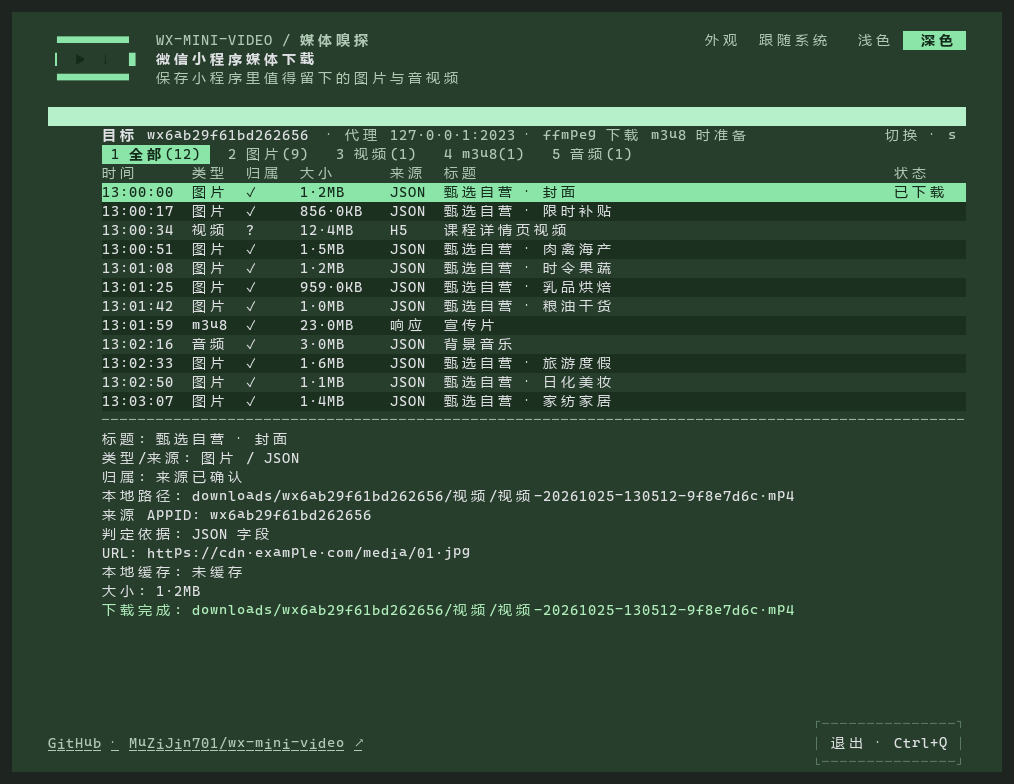
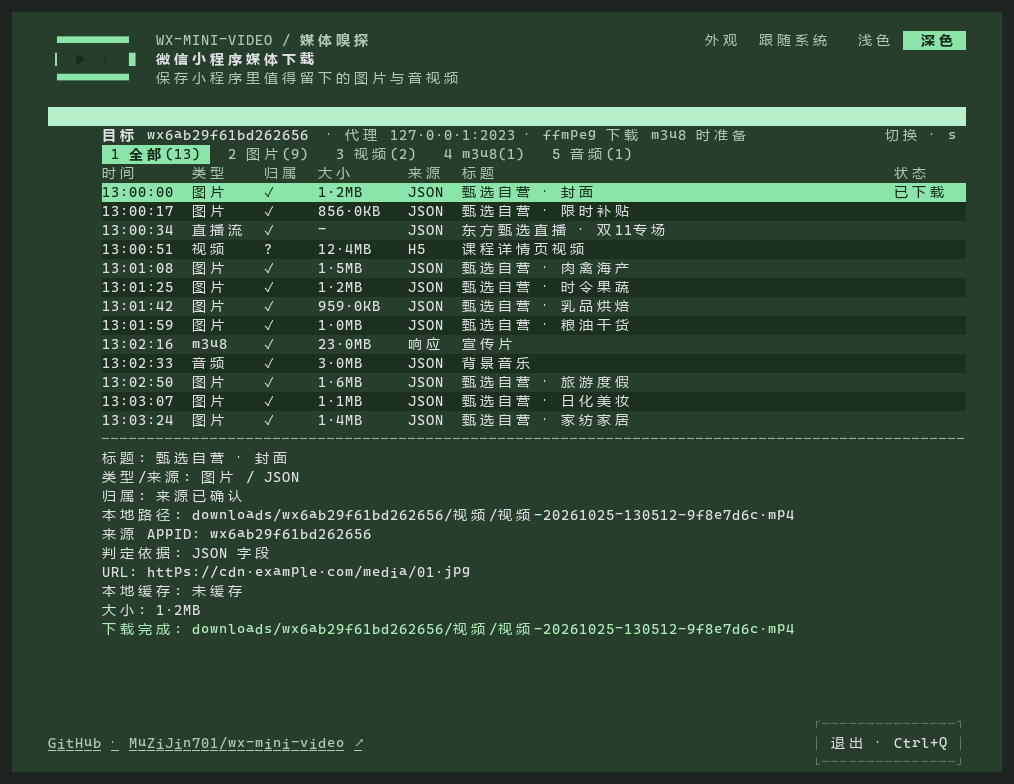
docs: 同步直播流识别与录制的文档和截图
更新 README 中英文（直播录制截图与说明）、知识文档验收清单与测试覆盖、macOS 使用说明与需求、UI 改版需求的后续扩展记录、agent 域文档的 ADR 列表与 CHANGELOG；重新生成受类型列宽影响的文档截图，并新增直播录制截图（预览工具补充 live 候选与 recording 场景）。

diff --git a/internal/tui/preview.go b/internal/tui/preview.go
@@ -24,7 +24,7 @@ func init() {
 }
 
 // PreviewKinds 是文档预览支持的界面名称。
-var PreviewKinds = []string{"home", "waiting", "discovered", "media", "downloaded", "logs"}
+var PreviewKinds = []string{"home", "waiting", "discovered", "media", "recording", "downloaded", "logs"}
 
 // RenderPreview 渲染一个固定尺寸的界面预览。
 func RenderPreview(kind string, width, height int) (string, error) {
@@ -84,8 +84,23 @@ func buildPreviewModel(kind string, width, height int) (model, error) {
 		m.started = true
 		m.category = categoryAll
 		m.candidates = previewCandidates()
-		m.selected = 2
+		m.selected = previewLiveIndex(m.candidates)
 		m.showDetails = true
+	case "recording":
+		m.targetReady = true
+		m.started = true
+		m.category = categoryAll
+		m.candidates = previewCandidates()
+		m.selected = previewLiveIndex(m.candidates)
+		m.downloading = true
+		m.downloadLive = true
+		m.downloadID = m.candidates[m.selected].ID
+		m.progress = minidownload.Progress{
+			ID:         m.downloadID,
+			Status:     "recording",
+			Downloaded: 96 * 1024 * 1024,
+			Live:       true,
+		}
 	case "downloaded":
 		m.targetReady = true
 		m.started = true
@@ -120,6 +135,9 @@ func previewLogs() []string {
 		"13:00:31 检测到来源未确认媒体，已按类型并入列表（以 ? 标记）",
 		"13:01:08 开始下载: 来源已确认 视频 甄选自营 · 封面",
 		"13:01:12 下载完成: downloads/wx6ab29f61bd262656/视频/视频_20261025-130512_9f8e7d6c.mp4",
+		"13:01:20 开始下载: 来源已确认 直播流 东方甄选直播 · 双11专场",
+		"13:01:20 识别为直播流：会持续录制且不会自动结束，按 x 停止并保存",
+		"13:02:41 已停止录制: downloads/wx6ab29f61bd262656/视频/视频_20261025-130241_00000003.flv",
 	}
 }
 
@@ -131,23 +149,25 @@ func previewCandidates() []miniprogram.Candidate {
 		source string
 		size   int64
 		attr   string
+		live   bool
 	}{
-		{"甄选自营 · 封面", "image", "json", 1_258_291, miniprogram.AttributionConfirmed},
-		{"甄选自营 · 限时补贴", "image", "json", 876_544, miniprogram.AttributionConfirmed},
-		{"课程详情页视频", "video", "html", 13_002_291, miniprogram.AttributionUnattributed},
-		{"甄选自营 · 肉禽海产", "image", "json", 1_572_664, miniprogram.AttributionConfirmed},
-		{"甄选自营 · 时令果蔬", "image", "json", 1_310_720, miniprogram.AttributionConfirmed},
-		{"甄选自营 · 乳品烘焙", "image", "json", 982_016, miniprogram.AttributionConfirmed},
-		{"甄选自营 · 粮油干货", "image", "json", 1_048_576, miniprogram.AttributionConfirmed},
-		{"宣传片", "m3u8", "response", 24_117_248, miniprogram.AttributionConfirmed},
-		{"背景音乐", "audio", "json", 3_145_728, miniprogram.AttributionConfirmed},
-		{"甄选自营 · 旅游度假", "image", "json", 1_703_936, miniprogram.AttributionConfirmed},
-		{"甄选自营 · 日化美妆", "image", "json", 1_205_862, miniprogram.AttributionConfirmed},
-		{"甄选自营 · 家纺家居", "image", "json", 1_454_080, miniprogram.AttributionConfirmed},
+		{"甄选自营 · 封面", "image", "json", 1_258_291, miniprogram.AttributionConfirmed, false},
+		{"甄选自营 · 限时补贴", "image", "json", 876_544, miniprogram.AttributionConfirmed, false},
+		{"东方甄选直播 · 双11专场", "video", "json", 0, miniprogram.AttributionConfirmed, true},
+		{"课程详情页视频", "video", "html", 13_002_291, miniprogram.AttributionUnattributed, false},
+		{"甄选自营 · 肉禽海产", "image", "json", 1_572_664, miniprogram.AttributionConfirmed, false},
+		{"甄选自营 · 时令果蔬", "image", "json", 1_310_720, miniprogram.AttributionConfirmed, false},
+		{"甄选自营 · 乳品烘焙", "image", "json", 982_016, miniprogram.AttributionConfirmed, false},
+		{"甄选自营 · 粮油干货", "image", "json", 1_048_576, miniprogram.AttributionConfirmed, false},
+		{"宣传片", "m3u8", "response", 24_117_248, miniprogram.AttributionConfirmed, false},
+		{"背景音乐", "audio", "json", 3_145_728, miniprogram.AttributionConfirmed, false},
+		{"甄选自营 · 旅游度假", "image", "json", 1_703_936, miniprogram.AttributionConfirmed, false},
+		{"甄选自营 · 日化美妆", "image", "json", 1_205_862, miniprogram.AttributionConfirmed, false},
+		{"甄选自营 · 家纺家居", "image", "json", 1_454_080, miniprogram.AttributionConfirmed, false},
 	}
 	out := make([]miniprogram.Candidate, 0, len(items))
 	for i, item := range items {
-		url := fmt.Sprintf("https://cdn.example.com/media/%02d.%s", i+1, previewExt(item.kind))
+		url := fmt.Sprintf("https://cdn.example.com/media/%02d.%s", i+1, previewExt(item.kind, item.live))
 		out = append(out, miniprogram.Candidate{
 			ID:            fmt.Sprintf("%08x%032x", i+1, i+1),
 			AppID:         "wx6ab29f61bd262656",
@@ -159,10 +179,20 @@ func previewCandidates() []miniprogram.Candidate {
 			Attribution:   item.attr,
 			CreatedAt:     base.Add(time.Duration(i) * 17 * time.Second),
 			SourceAppID:   sourceAppID(item.attr),
+			Live:          item.live,
 			Headers:       map[string]string{"Referer": "https://servicewechat.com/wx6ab29f61bd262656/12/page-frame.html", "User-Agent": "MicroMessenger"},
 		})
 	}
 	return out
+}
+
+func previewLiveIndex(candidates []miniprogram.Candidate) int {
+	for i, candidate := range candidates {
+		if candidate.Live {
+			return i
+		}
+	}
+	return 0
 }
 
 func sourceAppID(attribution string) string {
@@ -172,7 +202,10 @@ func sourceAppID(attribution string) string {
 	return "wx6ab29f61bd262656"
 }
 
-func previewExt(kind string) string {
+func previewExt(kind string, live bool) string {
+	if live {
+		return "flv"
+	}
 	switch kind {
 	case "image":
 		return "jpg"

diff --git a/wx-mini-video-knowledge.md b/wx-mini-video-knowledge.md
@@ -125,7 +125,7 @@ go vet ./...
 git diff --check
 ```
 
-测试覆盖来源过滤及副作用、发现/选择/切换、分类和下载、Windows 启动编排与参数传递。v0.2.0 起另覆盖 `internal/tui/ui` 的布局度量/显示宽度/外观偏好读写、`internal/tui` 的鼠标命中与目标覆盖层选择/退出确认、`internal/miniprogram` 与 `internal/minidownload` 的下载目录分桶和文件命名、`internal/tui/logo` 的能力探测解析与 Sixel/kitty 编码。代理库 patch 的回归测试不在根模块的 `./...` 中，修改 `third_party/echo/` 后需运行 `go test -count=1 github.com/ltaoo/echo/...`。代理恢复回归使用替身，不更改真实系统代理或证书。自动化结果不能替代下面的真实微信验收，也不能替代真实终端中的图片显示与鼠标交互验收。
+测试覆盖来源过滤及副作用、发现/选择/切换、分类和下载、Windows 启动编排与参数传递。v0.2.0 起另覆盖 `internal/tui/ui` 的布局度量/显示宽度/外观偏好读写、`internal/tui` 的鼠标命中与目标覆盖层选择/退出确认、`internal/miniprogram` 与 `internal/minidownload` 的下载目录分桶和文件命名、`internal/tui/logo` 的能力探测解析与 Sixel/kitty 编码。HTTP-FLV 直播流回归覆盖 FLV 分类/疑似直播标记、interceptor 响应判定、chunked 直播录制到用户停止、有限 FLV 不被误判、`.flv` 单后缀命名，以及 TUI 的「直播流」类型/录制中状态/停止与退出流程。代理库 patch 的回归测试不在根模块的 `./...` 中，修改 `third_party/echo/` 后需运行 `go test -count=1 github.com/ltaoo/echo/...`。代理恢复回归使用替身，不更改真实系统代理或证书。自动化结果不能替代下面的真实微信验收，也不能替代真实终端中的图片显示与鼠标交互验收。
 
 可靠性回归还覆盖独立证书生成及复用、私钥 ACL、显式配置失败、指纹匹配、迁移确认、退出重试、完整代理快照、同名资源隔离、实体校验续传和鉴权头来源隔离。机器已安装 ffmpeg 时，测试会生成短音频分片并以本机 HTTP 服务验证预取与 ffmpeg 两种鉴权 m3u8 合并；未安装时跳过这一实际合并用例，仍执行播放列表入口测试，不自动下载 ffmpeg。新增回归覆盖随包 ffmpeg 路径与优先级、来源未确认媒体/未知二进制兜底、JSON 字段拼接、debug 日志脱敏、echo listener 回收、分片 `.part`/`.done` 复用判定。
 
@@ -160,7 +160,7 @@ cmd /c build\build.bat windows
 当前只确认过普通用户 Windows Terminal 中显示正常；证书提权子进程、标准用户 + 独立管理员账号、真实微信音频及请求来源覆盖仍待人工验收。macOS 已列为后续真机验收目标，当前尚未验收，检查项见 [macOS 测试版说明](docs/macos-usage.md)。
 
 1. 双击启动，确认在 Windows Terminal 中运行；已在 Terminal 中不重复开窗；无 Terminal 时保留当前控制台。检查中文/空格路径和显式配置文件。首次安装根证书时应出现一次 UAC；取消后应给出可理解错误，重新启动可再次请求。发现两个小程序，确认 AppID 去重，未选择前无媒体候选或缓存。
-2. 分别用手动输入和 `Ctrl+D` 目标覆盖层选择目标（选中即确认，不再补填名称），重新加载图片、直链视频、直链音频和 m3u8。检查分类、标题、后缀、原文件保存和 m3u8 输出；核对 Referer 与目标一致，来源缺失的媒体应以 `?` 标记按类型显示并可下载，记录 `✓`/`?` 标记，不放宽目标过滤。
+2. 分别用手动输入和 `Ctrl+D` 目标覆盖层选择目标（选中即确认，不再补填名称），重新加载图片、直链视频、直链音频、m3u8 和 HTTP-FLV 直播流。检查分类、标题、后缀、原文件保存和 m3u8 输出；核对 Referer 与目标一致，来源缺失的媒体应以 `?` 标记按类型显示并可下载，记录 `✓`/`?` 标记，不放宽目标过滤。
 3. 同时操作其他小程序，确认其媒体不进入目标候选；来源未确认媒体允许出现其他来源内容，但应标记 `?` 并说明来源不可靠。匹配 JSON 的图片、直链视频和音频可出现，JSON m3u8 继续跳过。
 4. 按 `s` 打开目标覆盖层，先按 `Esc` 确认当前目标和候选保留；再切换到新目标，确认旧候选和进度清空、本地文件保留，旧响应不重新填充列表。下载中切换应被拒绝且下载继续。
 5. 从发现和媒体界面退出，核对原代理恢复；另检查异常退出后按排障步骤恢复。证书不会随退出卸载。验收记录不包含 Cookie、鉴权头值或带签名的完整媒体 URL。
@@ -168,3 +168,4 @@ cmd /c build\build.bat windows
 7. 设置 `WX_MINI_VIDEO_DEBUG=1` 后确认生成 `wx-mini-video-debug.log`，其中不含 URL query 或 Cookie 值。
 8. 在“标准用户运行微信 + 用另一个管理员账号提权”的机器上验证：程序以普通用户启动；首次安装根证书出现 UAC 后代理作用于当前用户；微信流量可被捕获；退出后代理恢复到该用户的原始设置。同时验证“同账号管理员”机器只需一次 UAC。
 9. v0.2.0 界面与目录：在 Windows Terminal 中检查品牌区/真图或块字符 logo、浅色/深色/跟随系统切换与重启保留、鼠标点击页签与行、`i` 详情抽屉、`l` 日志浮层、下载中退出确认；下载图片/视频/音频/m3u8 后核对 `downloads/<AppID>/<类型>/` 结构、文件名、`history.jsonl` 新字段与 `o` 打开的目标目录；旧平铺文件保持原样。
+10. HTTP-FLV 直播流：在直播页面确认候选类型显示「直播流」、详情依据为「HTTP-FLV 直播流（URL/响应识别）」；按 `d` 后状态行显示「录制直播中 …（不会自动结束，按 x 停止并保存）」、行尾「录制中」，已录大小持续增长；按 `x` 停止后文件以 `.flv` 保存、`.part` 已提交、`history.jsonl` 有记录；录制中按 `q` 确认退出应先停止并保存再恢复代理；确认同一 `.flv` 不再生成 `.flv.mp4`。HLS 直播不在本次范围，m3u8 行为保持原样。

diff --git a/docs/macos-usage.md b/docs/macos-usage.md
@@ -1,6 +1,6 @@
 # macOS 测试版
 
-适用目标：macOS 13 及以上，Apple Silicon 与 Intel 共用一个 ZIP。保留 Windows 版的终端界面、目标 AppID 严格归属、来源未确认媒体按类型显示、图片、直链视频、直链音频及 m3u8 下载流程。
+适用目标：macOS 13 及以上，Apple Silicon 与 Intel 共用一个 ZIP。保留 Windows 版的终端界面、目标 AppID 严格归属、来源未确认媒体按类型显示、图片、直链视频、直链音频、m3u8 下载，以及 HTTP-FLV 直播流识别与持续录制流程。
 
 [下载 v0.1.9 Mac 通用 ZIP](https://github.com/MuZiJin701/wx-mini-video/releases/download/v0.1.9/wx-mini-video-macos-universal-unsigned.zip)。Windows 与 Mac 包在同一 [v0.1.9 Release](https://github.com/MuZiJin701/wx-mini-video/releases/tag/v0.1.9) 并列提供，平台状态分别标注。应用内版本号见 `main.go`（当前源码 v0.2.0；发布前 Release 仍为 v0.1.9），Mac 附件的具体构建提交与 SHA-256 见发布说明。
 
@@ -13,7 +13,7 @@
 3. 若提示找不到配置文件，先核对完整解压；首次运行或移动文件夹后，请在 Finder 中将 `.app` 拖出解压文件夹，再拖回原文件夹，重新双击。macOS 可能临时移动新下载的应用，此步骤及不同系统版本的实际行为仍待验证；不要将配置或下载文件放入 `.app` 内部。
 4. 按系统提示允许控制 Terminal，随后在终端界面输入目标 AppID，或按 `Ctrl+D` 发现并选择小程序。进入发现或选择目标后才启动代理。
 5. 首次启动代理时允许将本机独立根证书添加到当前用户默认钥匙串并建立信任。启用和恢复系统代理时会请求管理员授权；终端主体保持普通用户运行。
-6. 代理运行后重新打开目标图片或播放视频、音频。按 `1` 查看全部；来源未确认媒体以 `?` 标记并入对应分类。`d` 或 `Enter` 下载，`o` 打开下载目录。m3u8 使用随包 `ffmpeg/` 中对应处理器的 ffmpeg，无需联网准备；随包文件缺失或损坏时自动回退受管下载，也可在 `download.ffmpeg` 指定已有可执行文件。
+6. 代理运行后重新打开目标图片或播放视频、音频。按 `1` 查看全部；来源未确认媒体以 `?` 标记并入对应分类。`d` 或 `Enter` 下载，`o` 打开下载目录。m3u8 使用随包 `ffmpeg/` 中对应处理器的 ffmpeg，无需联网准备；随包文件缺失或损坏时自动回退受管下载，也可在 `download.ffmpeg` 指定已有可执行文件。HTTP-FLV 直播流会标记为「直播流」，下载会持续录制且不会自动结束，按 `x` 停止并保存为 `.flv`（与 Windows 行为一致）。
 7. 按 `q` 退出，并允许恢复启动前的代理。恢复失败时按 `r` 重试；仅在理解需要自行恢复网络设置后按 `f` 强制退出。
 
 媒体默认保存在解压文件夹内自动创建的 `downloads/`。升级时替换 `.app`，保留原配置和 `downloads/`。本机独立根证书与私钥保存在 `~/Library/Application Support/wx-mini-video/certificates/root-ca.pem`，不随文件夹移动或分发。
@@ -31,7 +31,7 @@
 
 项目提供 [macOS 原生 CI](https://github.com/MuZiJin701/wx-mini-video/actions/workflows/macos.yml)，分别验证 Intel 与 Apple Silicon 的原生测试、随包/受管 ffmpeg 校验与 m3u8 合并、便携包及终端内启动。以对应提交的 Actions 结果为准；CI 不操作真实系统代理或安装证书，也不覆盖 Finder 双击、系统授权和真实微信验收。
 
-请分别在两种处理器上记录机型、macOS 版本、微信版本，以及首次双击、Terminal 授权、证书授权、图片/直链视频/直链音频/m3u8、网络切换和退出恢复的结果。验证完整解压后、移动目录后、中文及空格路径中的配置和 `downloads/` 均位于原便携目录。
+请分别在两种处理器上记录机型、macOS 版本、微信版本，以及首次双击、Terminal 授权、证书授权、图片/直链视频/直链音频/m3u8、HTTP-FLV 直播流录制（`x` 停止保存）、网络切换和退出恢复的结果。验证完整解压后、移动目录后、中文及空格路径中的配置和 `downloads/` 均位于原便携目录。
 
 反馈错误摘要即可；不要发送私钥、Cookie、鉴权头或带签名的完整媒体 URL。签名、公证与编译成功均不代表真实微信嗅探已经通过。
 

diff --git a/docs/macos-requirements.md b/docs/macos-requirements.md
@@ -6,7 +6,7 @@
 
 按用户要求，Windows 稳定包与 Mac 未签名测试包在同一 [v0.1.9 Release](https://github.com/MuZiJin701/wx-mini-video/releases/tag/v0.1.9) 并列提供，分别标明状态、构建提交和 SHA-256。共用发布入口不表示 Mac 已达到正式发布门槛。
 
-- 在 Mac 本机运行，嗅探同一台 Mac 上微信小程序的媒体，保留现有目标选择、小程序发现、图片、直链视频、直链音频和 m3u8 媒体下载流程。
+- 在 Mac 本机运行，嗅探同一台 Mac 上微信小程序的媒体，保留现有目标选择、小程序发现、图片、直链视频、直链音频、m3u8 媒体下载，以及 HTTP-FLV 直播流识别与持续录制流程。
 - 首版面向普通用户公开发布，同时支持 Apple Silicon 和 Intel Mac。
 - 首版系统目标为 macOS 13 及以上；微信优先支持发布验收时的官方最新稳定版，公开说明实际通过验收的系统、微信版本和处理器组合。目标范围不表示所有组合均已验证。
 - 继续按请求来源 AppID 严格匹配目标 AppID，来源缺失时仍过滤，不因 macOS 适配放宽范围。见 [ADR 0003](adr/0003-target-appid-filtering.md)。
@@ -37,7 +37,7 @@
 1. 验证真实下载的签名、公证 ZIP 经完整解压及允许的一次性引导后，能够双击启动，并准确读写原便携应用目录的配置与 `downloads/`；移动目录后同样验证。
 2. 验证 Mac 微信请求经过本机 HTTPS 代理、接受独立根证书，并提供严格匹配目标 AppID 所需的请求来源信息。
 
-两种架构分别完成真实微信、图片、直链视频、直链音频、m3u8、首次授权、双击启动、代理冲突、网络切换及代理恢复验收，才能正式发布。保存实际通过的版本组合；构建和自动化测试不能替代真实微信验收。
+两种架构分别完成真实微信、图片、直链视频、直链音频、m3u8、HTTP-FLV 直播流录制（`x` 停止并保存）、首次授权、双击启动、代理冲突、网络切换及代理恢复验收，才能正式发布。保存实际通过的版本组合；构建和自动化测试不能替代真实微信验收。
 
 先通过 GitHub Actions 的 macOS 15 Intel / Apple Silicon 托管环境执行原生测试、固定 ffmpeg 下载与合并、真实网络服务和钥匙串只读检查，以及便携包和终端内启动验证；运行记录见 [macOS CI](https://github.com/MuZiJin701/wx-mini-video/actions/workflows/macos.yml)。该环境不覆盖 macOS 13、系统交互授权、Finder 双击或真实微信，相关验收继续保留。
 

diff --git a/CHANGELOG.md b/CHANGELOG.md
@@ -11,7 +11,7 @@
 - 下载产物改为 `downloads/<目标 AppID>/<图片|视频|音频|m3u8|其他>/` 分类存放；文件名改为 `类型_YYYYMMDD-HHMMSS_候选ID前8位.扩展名`；m3u8 合并产物、播放列表缓存与分片临时目录统一放入 `m3u8/`。`history.jsonl` 新增 `app_id`/`source_app_id`/`kind`/`attribution` 字段，`o`/`Ctrl+O` 优先打开当前小程序目录；旧版平铺文件不迁移、不删除、不复用。
 - 媒体列表改为按显示宽度计算的带表头表格，支持整行选中、斑马纹、窄终端隐藏列；已下载候选在当前进程内标记「已下载」，详情抽屉显示本地路径；下载中退出需要二次确认。
 - 新增 HTTP-FLV 直播流识别与录制：`.flv` 地址与 `video/x-flv` 等 FLV 类型识别为视频并保存 `.flv`（不再错误补成 `.flv.mp4`）；没有 Content-Length 的 FLV 响应标记为「直播流」，下载按持续录制处理（不续传、不校验总长度），按 `x` 或确认退出停止并把已录内容保存为 `.flv`；列表类型列、详情依据、录制状态行与退出确认同步显示直播语义。
-- README/知识文档与操作截图更新；版本号升至 0.2.0（发布前 Release 仍为 v0.1.9）。
+- README/知识文档与操作截图（含直播录制截图）更新；版本号升至 0.2.0（发布前 Release 仍为 v0.1.9）。
 
 ## v0.1.9 · 2026-10-25
 

diff --git a/README.en.md b/README.en.md
@@ -33,7 +33,7 @@ Since v0.2.0 the TUI has a single main surface: a brand area at the top (a bitma
 
 The **appearance** control supports **follow system / light / dark**, switched with `←/→` or a click, effective immediately and remembered in `downloads/ui.json`. Windows reads the system app theme; macOS reads the system appearance; when unavailable the UI falls back to dark.
 
-![Media list: select a candidate and download](https://raw.githubusercontent.com/MuZiJin701/wx-mini-video/main/docs/images/使用界面.png)
+![Media list: select a candidate and download (live stream selected)](https://raw.githubusercontent.com/MuZiJin701/wx-mini-video/main/docs/images/使用界面.png)
 
 <details>
 <summary>View workflow screenshots</summary>
@@ -53,6 +53,10 @@ Selecting an AppID confirms the target immediately (no name step):
 When the download finishes, the row shows "downloaded"; press `o` to view the file:
 
 ![Completed download](https://raw.githubusercontent.com/MuZiJin701/wx-mini-video/main/docs/images/下载完成.png)
+
+Live streams are labelled `直播流` (live stream); press `d` to start a continuous recording, watch the recorded size in the status line, and press `x` to stop and save:
+
+![Live recording](https://raw.githubusercontent.com/MuZiJin701/wx-mini-video/main/docs/images/直播录制.png)
 
 </details>
 

diff --git a/docs/ui-redesign-requirements.md b/docs/ui-redesign-requirements.md
@@ -367,3 +367,7 @@ downloads/
 | 19 | 系统明暗 | Windows 与 macOS 都跟随，失败回退深色 |
 | 20 | 退出确认 | 仅下载中二次确认 |
 | 21 | 非目标 | 不做批量下载队列、发现持久化、嗅探规则改动 |
+
+## 后续扩展
+
+- 2026-10-25：在本文范围之外新增 HTTP-FLV 直播流识别与持续录制（`Candidate.Live`、「直播流」类型、`x` 停止保存 `.flv`），见 [ADR 0013](adr/0013-live-stream-recording.md)。它沿用本文的界面结构、分类目录与命名规则，只调整类型列的显示宽度（4→6）并补充直播相关状态；HLS 直播仍不在范围内。

diff --git a/docs/agents/domain.md b/docs/agents/domain.md
@@ -33,7 +33,8 @@
 │   ├── 0009-user-scoped-windows-runtime.md
 │   ├── 0010-source-built-ffmpeg.md
 │   ├── 0011-single-main-surface-ui.md
-│   └── 0012-per-appid-download-layout.md
+│   ├── 0012-per-appid-download-layout.md
+│   └── 0013-live-stream-recording.md
 └── wx-mini-video-knowledge.md
 ```
 
